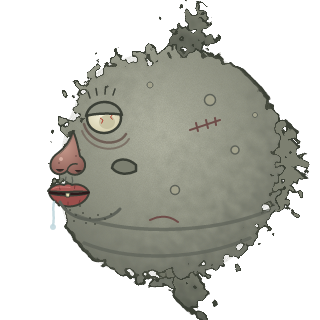
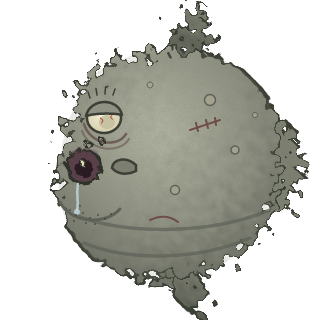
chum: fish face, drawn by hand

Changed region(s): [[0.125, 0.4062, 0.3438, 0.7188]]

diff --git a/docs/about.html b/docs/about.html
@@ -70,7 +70,7 @@ Some packages, like firmware and the NVIDIA driver, are not open source.</p>
 <p>Issues and questions go on <a href="https://github.com/tortr-rs/chamesle/issues">GitHub</a>.</p>
 
 <h2 id="chum">Meet Chum</h2>
-<p><img src="img/chum.png" alt="Chum, a grey and very round sunfish with a human nose and lips" width="220" height="220"
+<p><img src="img/chum.png" alt="Chum, a grey, lumpy and very round sunfish" width="220" height="220"
   style="float:right;margin:0 0 12px 18px"></p>
 <p>Chum is a sunfish. He is the mascot of Chamesle Linux, mostly because nobody else wanted the job.</p>
 <p>He can't see. He doesn't have a tail fin, so he mostly drifts. He has never once been asked for his opinion,
